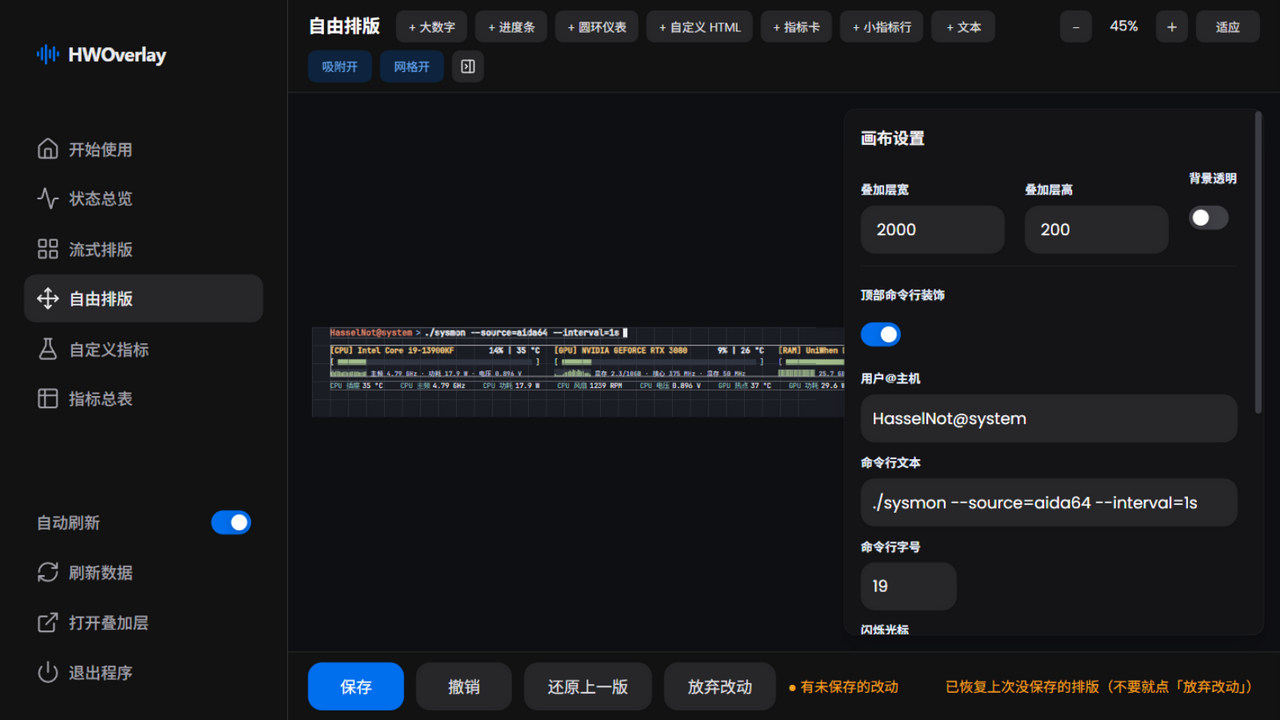
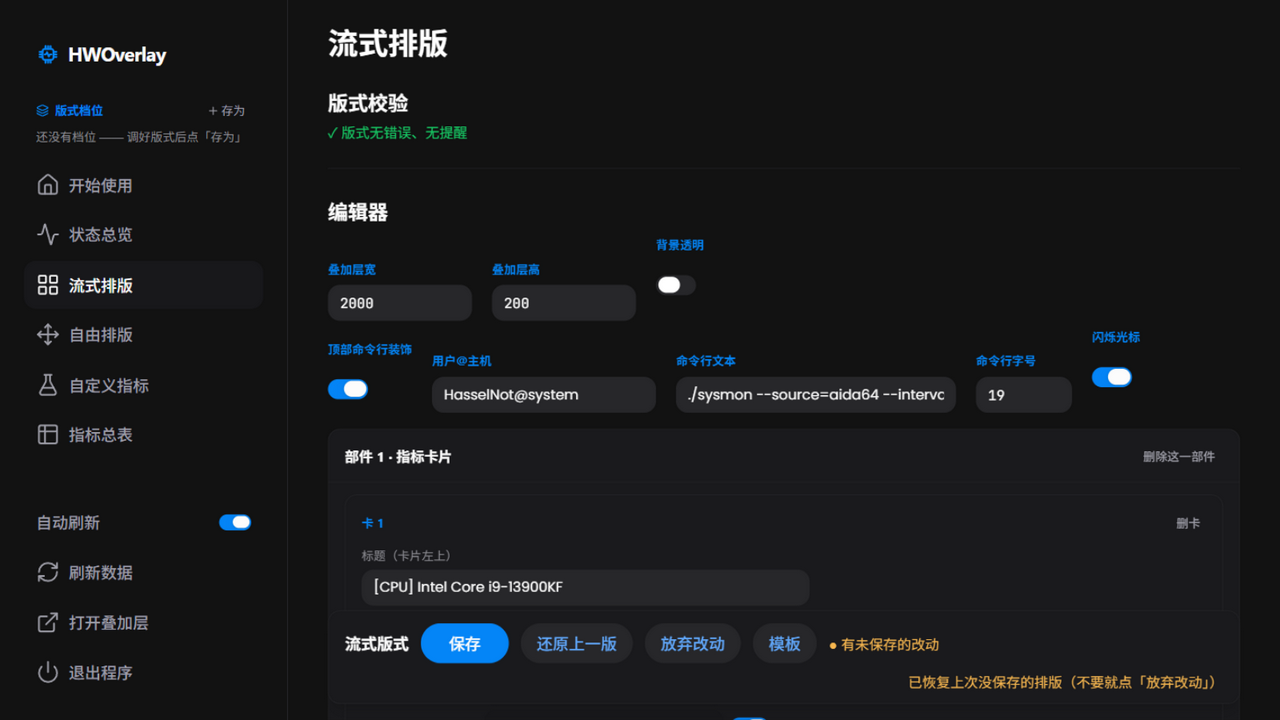
fix: 吸底保存条窄屏优雅换行 + 更新 v3 编辑器预览图
保存条 flex 项挤在一起导致"流式版式""有未保存的改动"断字换行 —— 改 flex-wrap
+ 标签 whitespace-nowrap shrink-0 + 消息 ml-auto，窄屏整体换到第二行而非拆字。
FreeEditorPage 保存条同样处理，并把它漏改的 border-divider 修成 v3 的 border-border。
重拍 editor_preview.png 反映 v3 观感（叠加层 monitor.html 本次未动，overlay 图仍准确）。

diff --git a/frontend/src/pages/EditorPage.tsx b/frontend/src/pages/EditorPage.tsx
@@ -4,7 +4,7 @@ import { api, clone, outPaths } from "../api";
 import { clearDraft, loadDraft, saveDraft } from "../draftStore";
 import type { CardsWidget, ChipsWidget, LayoutPreset, OverlayConfig, TextWidget } from "../types";
 import type { Shared } from "../App";
-import { Btn, CARD_CLS, FieldLabel, Hint, Page, Section, SubTitle} from "../ui";
+import { Btn, CARD_CLS, FieldLabel, Hint, Page, Section } from "../ui";
 import {
   CanvasFields, CardsEditor, ChipsEditor, PromptBar, TemplatePicker, TextEditor,
 } from "./editors";
@@ -302,17 +302,16 @@ export default function EditorPage({ shared }: { shared: Shared }) {
       </Section>
 
       {/* 吸底保存条 */}
-      <div className={`sticky bottom-4 z-10 flex items-center gap-3 ${CARD_CLS} px-4 py-3 shadow-lg`}>
-        <SubTitle>流式版式</SubTitle>
+      <div className={`sticky bottom-4 z-10 flex flex-wrap items-center gap-x-3 gap-y-2 ${CARD_CLS} px-4 py-3 shadow-lg`}>
+        <b className="shrink-0 whitespace-nowrap text-base font-bold text-foreground">流式版式</b>
         <Btn size="lg" className="px-7" isDisabled={!dirty} onPress={save}>保存</Btn>
         <Btn size="lg" variant="secondary" className="bg-[#27272a]" onPress={undo}>还原上一版</Btn>
         <Btn size="lg" variant="secondary" className="bg-[#27272a]" isDisabled={!dirty} onPress={discardDraft}
           title="丢掉没保存的改动，回到已保存的版式">放弃改动</Btn>
         <Btn size="lg" variant="secondary" className="bg-[#27272a]" onPress={() => setTplOpen(true)}
           title="模板库：载入模板，或把当前草稿存为你的模板">模板</Btn>
-        {dirty && <span className="text-sm text-warning">● 有未保存的改动</span>}
-        <span className="flex-1" />
-        <span className={`text-sm ${msgColor}`}>{msg.text}</span>
+        {dirty && <span className="whitespace-nowrap text-sm text-warning">● 有未保存的改动</span>}
+        <span className={`ml-auto whitespace-nowrap text-sm ${msgColor}`}>{msg.text}</span>
       </div>
 
       <TemplatePicker isOpen={tplOpen} onOpenChange={setTplOpen} onPick={applyPreset} current={draft} />

diff --git a/frontend/src/pages/FreeEditorPage.tsx b/frontend/src/pages/FreeEditorPage.tsx
@@ -771,7 +771,7 @@ export default function FreeEditorPage({ shared }: { shared: Shared }) {
   return (
     <main className="fixed inset-y-0 right-0 left-72 z-10 flex flex-col bg-background">
       {/* 顶部工具栏 */}
-      <div className="flex flex-wrap items-center gap-2 border-b border-divider px-5 py-2.5">
+      <div className="flex flex-wrap items-center gap-2 border-b border-border px-5 py-2.5">
         <h1 className="mr-2 text-lg font-bold text-white">自由排版</h1>
         <Btn size="sm" variant="secondary" className="bg-[#27272a]" onPress={() => setTplOpen(true)}
           title="模板库：载入模板，或把当前草稿存为你的模板">模板</Btn>
@@ -1105,16 +1105,15 @@ export default function FreeEditorPage({ shared }: { shared: Shared }) {
       </div>
 
       {/* 吸底保存条 */}
-      <div className="flex items-center gap-3 border-t border-divider px-5 py-2.5">
+      <div className="flex flex-wrap items-center gap-x-3 gap-y-2 border-t border-border px-5 py-2.5">
         <Btn size="lg" className="px-7" isDisabled={!dirty} onPress={save}>保存</Btn>
         <Btn size="lg" variant="secondary" className="bg-[#27272a]" onPress={undoEdit}
           title="Ctrl+Z：回退上一步拖动/增删">撤销</Btn>
         <Btn size="lg" variant="secondary" className="bg-[#27272a]" onPress={undoSaved}>还原上一版</Btn>
         <Btn size="lg" variant="secondary" className="bg-[#27272a]" isDisabled={!dirty} onPress={discardDraft}
           title="丢掉没保存的改动，回到已保存的版式">放弃改动</Btn>
-        {dirty && <span className="text-sm text-warning">● 有未保存的改动</span>}
-        <span className="flex-1" />
-        <span className={`text-sm ${msgColor}`}>{msg.text}</span>
+        {dirty && <span className="whitespace-nowrap text-sm text-warning">● 有未保存的改动</span>}
+        <span className={`ml-auto whitespace-nowrap text-sm ${msgColor}`}>{msg.text}</span>
       </div>
 
       <TemplatePicker isOpen={tplOpen} onOpenChange={setTplOpen} onPick={applyPreset} current={draft} />

diff --git a/README.md b/README.md
@@ -19,6 +19,8 @@ JetBrains字体 + 控制台风格，与 [Now Playing](https://github.com/Widdit/
 - **自由排版编辑器**：部件拖拽，边缘/中线自动吸附，网格
 - **多种内置部件**：指标卡、小指标行、大数字、进度条、圆环仪表、文本、自定义 HTML
 - **模板库**：调好的版式可存为自己的模板（存在本机数据目录，升级不丢），也能导出 `.json` 文件备份、分享给别人或从文件导入
+- **多版式档位**：不同直播场景（全屏 / 角落 / 竖屏）各存一套已发布版式，侧栏一键切换生效，OBS 实时跟着变
+- **OBS 一键复制 + 连接排障**：浏览器源 URL 点一下就复制；AIDA64 连接异常时状态点可点开分步解决指南；非编辑页右下角常驻可拖动的实时预览窗
 - **自定义组件带脚本**：HTML 部件里可以写 `<script>`，提供 `HWOB` 数据 API（取数 / 历史 / 每帧回调）
 - **自定义指标**：AIDA64 导出了但还没注册的传感器
 - **字节预算条**：AIDA64 共享内存只有 4096 字节，选指标本质是分配字节，超没超一眼看见
@@ -111,7 +113,7 @@ python -m hwobs --open            # 管理页 http://localhost:8765/admin
                    ├── /api/*        管理页 API
                    ├── /hw.json /overlay.json /metrics.json /sensors
                    ├── /            叠加层 web/monitor.html（零依赖原生页面，OBS 用）
-                   └── /admin       管理页（React 构建产物，静态文件）
+                   └── /admin       管理页（React 19 + HeroUI v3 构建产物，静态文件）
 ```
 
 监控项走三级管线：**AIDA64 导出 → 注册表映射成指标 → 版式引用**。
@@ -149,6 +151,7 @@ python -m hwobs --open            # 管理页 http://localhost:8765/admin
 | PUT `/api/config`；POST `/api/config/rollback` | 版式写盘（校验不过不落盘、备份、原子替换）/ 回滚 |
 | GET `/api/sensors/unknown`；POST/DELETE `/api/metrics/custom` | 自定义指标（删除 = 回未知池） |
 | POST `/api/metrics/preset`；GET/POST/DELETE `/api/layout/presets` | 一键注册默认指标集 / 模板库：内置+用户模板列表、存为模板（保存前过一遍完整校验）、删除 |
+| GET/POST/DELETE `/api/profiles`；POST `/api/profiles/activate` | 多版式档位：列表 / 把当前发布版式另存为档 / 删除 / 切换生效（走 config.save：校验+备份） |
 | POST `/api/app/shutdown` | 退出程序（需 `confirm`，管理页按钮用） |
 
 ### 注册表模型（0.3.0 起）
